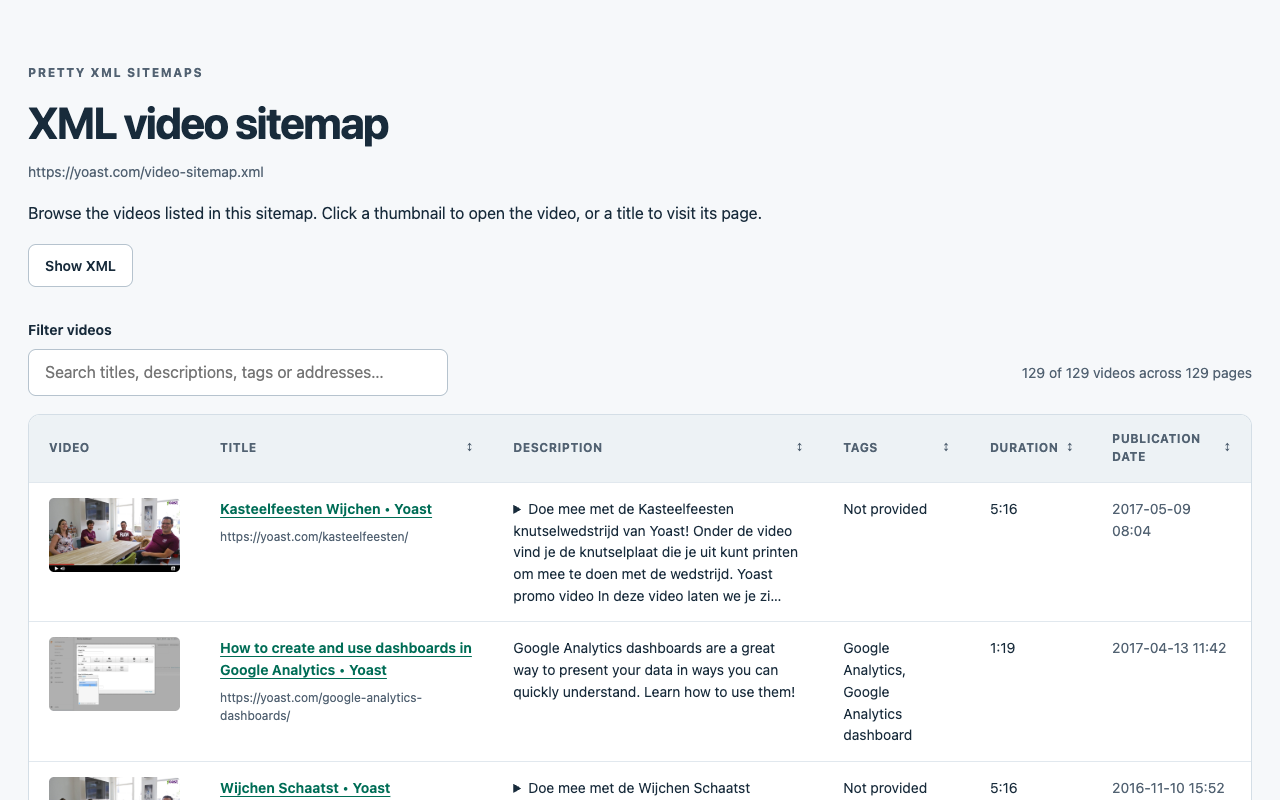
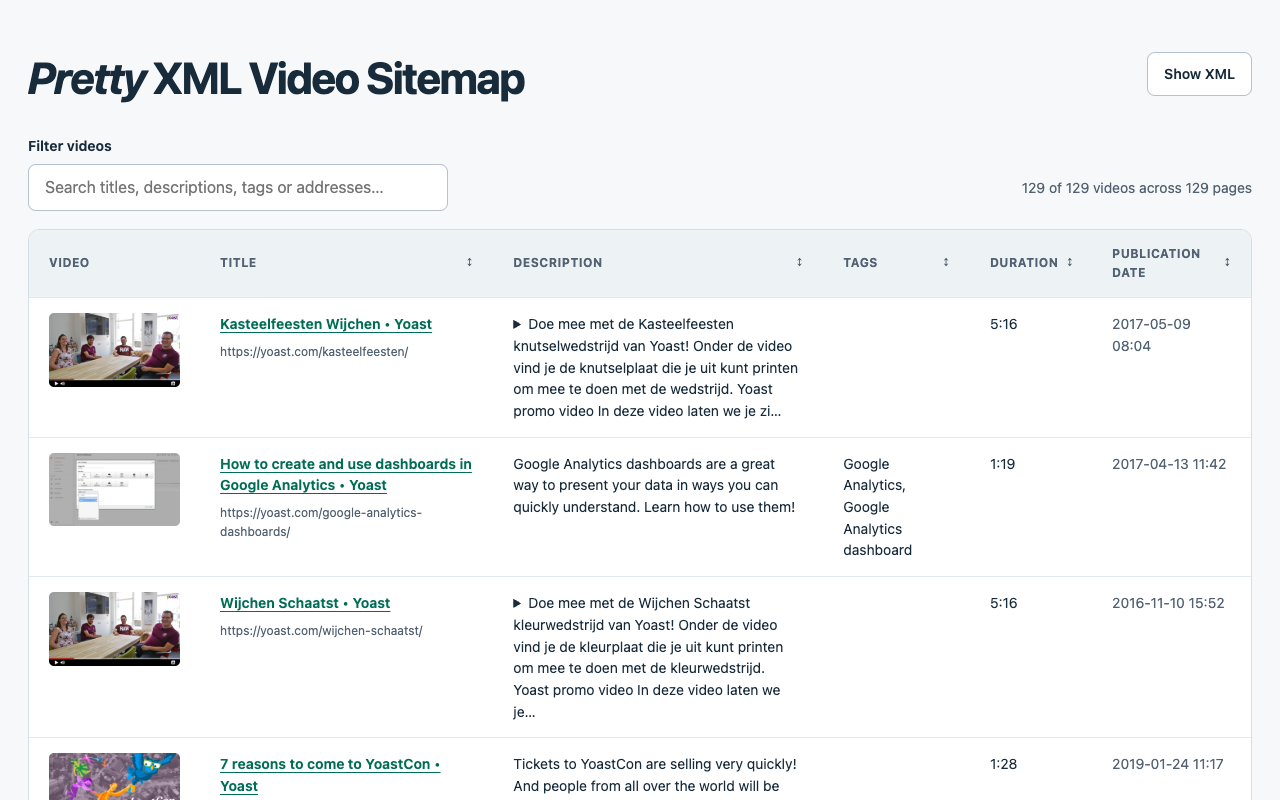
Release Pretty XML Sitemaps 0.5.0 with news and language views

diff --git a/src/content/pages/pretty-xml-sitemaps.md b/src/content/pages/pretty-xml-sitemaps.md
@@ -4,11 +4,11 @@ section: code
 toc: true
 seo:
   title: Pretty XML Sitemaps for Chrome
-  description: A free Chrome extension that makes XML sitemaps and sitemap indexes easy to browse. Search addresses, follow links, and switch to the XML view.
+  description: Browse XML sitemaps in Chrome with search, sorting, news, video thumbnails, image counts, and language links. Works without XSLT.
 ---
-Pretty XML Sitemaps is a free Chrome extension that turns XML sitemaps and sitemap indexes into clear, searchable tables. It works automatically when you open a sitemap, without XSLT.
+Pretty XML Sitemaps is a free Chrome extension that turns XML sitemaps and sitemap indexes into clear, searchable tables. It supports news, videos, image counts, and alternate language links. Unstyled XML sitemaps open in the table automatically; click the extension button to replace existing XSLT styling.
 
-[Download Pretty XML Sitemaps 0.4.0](/downloads/pretty-xml-sitemaps-0.4.0.zip)
+[Download Pretty XML Sitemaps 0.5.0](/downloads/pretty-xml-sitemaps-0.5.0.zip)
 
 For now, install it manually using the steps below. The extension is not yet listed in the Chrome Web Store.
 
@@ -19,6 +19,7 @@ Find the page you need without scrolling through raw XML:
 - Search for part of an address across the whole sitemap.
 - Click a link to open a page or a child sitemap.
 - See the modification dates supplied by the site.
+- Follow alternate language versions in the Languages column when a sitemap includes hreflang links. Search by language or alternate address, and click Languages to sort.
 - See how many images each page lists and sort by that count. The Images column appears when the sitemap includes images.
 - Click a table header to sort by address or date. Click again to reverse the order.
 - Browse long lists in pages of 100 entries.
@@ -34,9 +35,21 @@ Video sitemaps show thumbnails linked to the player, titles linked to their page
 
 ![Pretty XML Sitemaps showing Yoast’s video sitemap with thumbnails, titles, descriptions, tags, duration, and publication dates.](/images/pretty-xml-sitemaps-video-preview.png)
 
-If Chrome already displays a sitemap using XSLT, that view stays in place. The extension displays the video table when XSLT is unavailable or the sitemap has no stylesheet.
+## News sitemaps
+
+News sitemaps show article titles, publication names, languages, and publication dates alongside the last modification dates. Search for a headline, publication, language, or address, and click a column heading to sort.
+
+![Pretty XML Sitemaps showing BBC news headlines, publications, languages, and dates in dark mode.](/images/pretty-xml-sitemaps-news-preview.png)
+
+Try it on [BBC’s news sitemap](https://www.bbc.co.uk/sitemaps/https-sitemap-uk-news-1.xml).
+
+## Replace existing sitemap styling
+
+If a sitemap already has XSLT styling, click Pretty XML Sitemaps in Chrome’s Extensions menu to replace it with the extension’s view. Pin the extension for a button on your toolbar. Refresh the tab to restore the website’s original view.
 
 ## Install in Chrome
+
+Requires Chrome 106 or later.
 
 1. Download the ZIP above and unzip it.
 2. Type `chrome://extensions` into Chrome's address bar.
@@ -46,9 +59,11 @@ If Chrome already displays a sitemap using XSLT, that view stays in place. The e
 
 Try it on [specification.website's sitemap index](https://specification.website/sitemap-index.xml). Click any sitemap in the table to browse its entries.
 
+To update an existing unpacked installation, replace its files with the new version, click **Reload** on its card at `chrome://extensions`, and refresh your sitemap tabs.
+
 ## Your data stays in your browser
 
-The extension reads the current sitemap and its address to build the view. It uploads no sitemap data or search terms, and has no tracking or saved browsing history. Video thumbnails load directly from the image addresses listed in the sitemap, without a referrer. The image hosts receive normal browser requests. The file on the website stays unchanged.
+The extension reads the current sitemap and its address to build the view. It uploads no sitemap data or search terms, and has no tracking or saved browsing history. Video thumbnails load directly from the image addresses listed in the sitemap, without a referrer. The image hosts receive normal browser requests. Clicking the extension button loads the current address again to read its XML, using your normal browser access to that site. The file on the website stays unchanged.
 
 Chrome asks for website access because a sitemap can live on any domain or path. The extension checks that a document is a sitemap before displaying it. It does not request access to local files.
 

diff --git a/src/content/pages/pretty-xml-sitemaps-privacy-policy.md b/src/content/pages/pretty-xml-sitemaps-privacy-policy.md
@@ -11,7 +11,9 @@ Pretty XML Sitemaps is a browser extension by Joost de Valk. It displays XML sit
 
 ## Information processed on your device
 
-The extension checks the type of document you open. When it finds a standard XML sitemap or sitemap index, it reads that document and its address to build a table. This includes page addresses, modification dates, image counts, and video information such as titles, descriptions, tags, durations, publication dates, player links, and thumbnail addresses. The XML view can also display other information already present in the sitemap.
+The extension checks the type of document you open. When it finds a standard XML sitemap or sitemap index, it reads that document and its address to build a table. This includes page addresses, modification dates, image counts, alternate language codes and addresses, news titles, publication names, languages and publication dates, and video information such as titles, descriptions, tags, durations, publication dates, player links, and thumbnail addresses. The XML view can also display other information already present in the sitemap.
+
+Clicking the extension button requests the current tab’s address again to read the original XML behind an existing XSLT view. The website receives a normal request, including your IP address and browser request information. Your browser’s existing credentials and cookies for that same website apply; the extension does not read them. It replaces the view only after checking that the response is a standard XML sitemap. The extension uses temporary active-tab access and the scripting permission for this action. Refresh the tab to return to the website’s original view.
 
 Search text is used only to filter the entries in the current tab.
 
